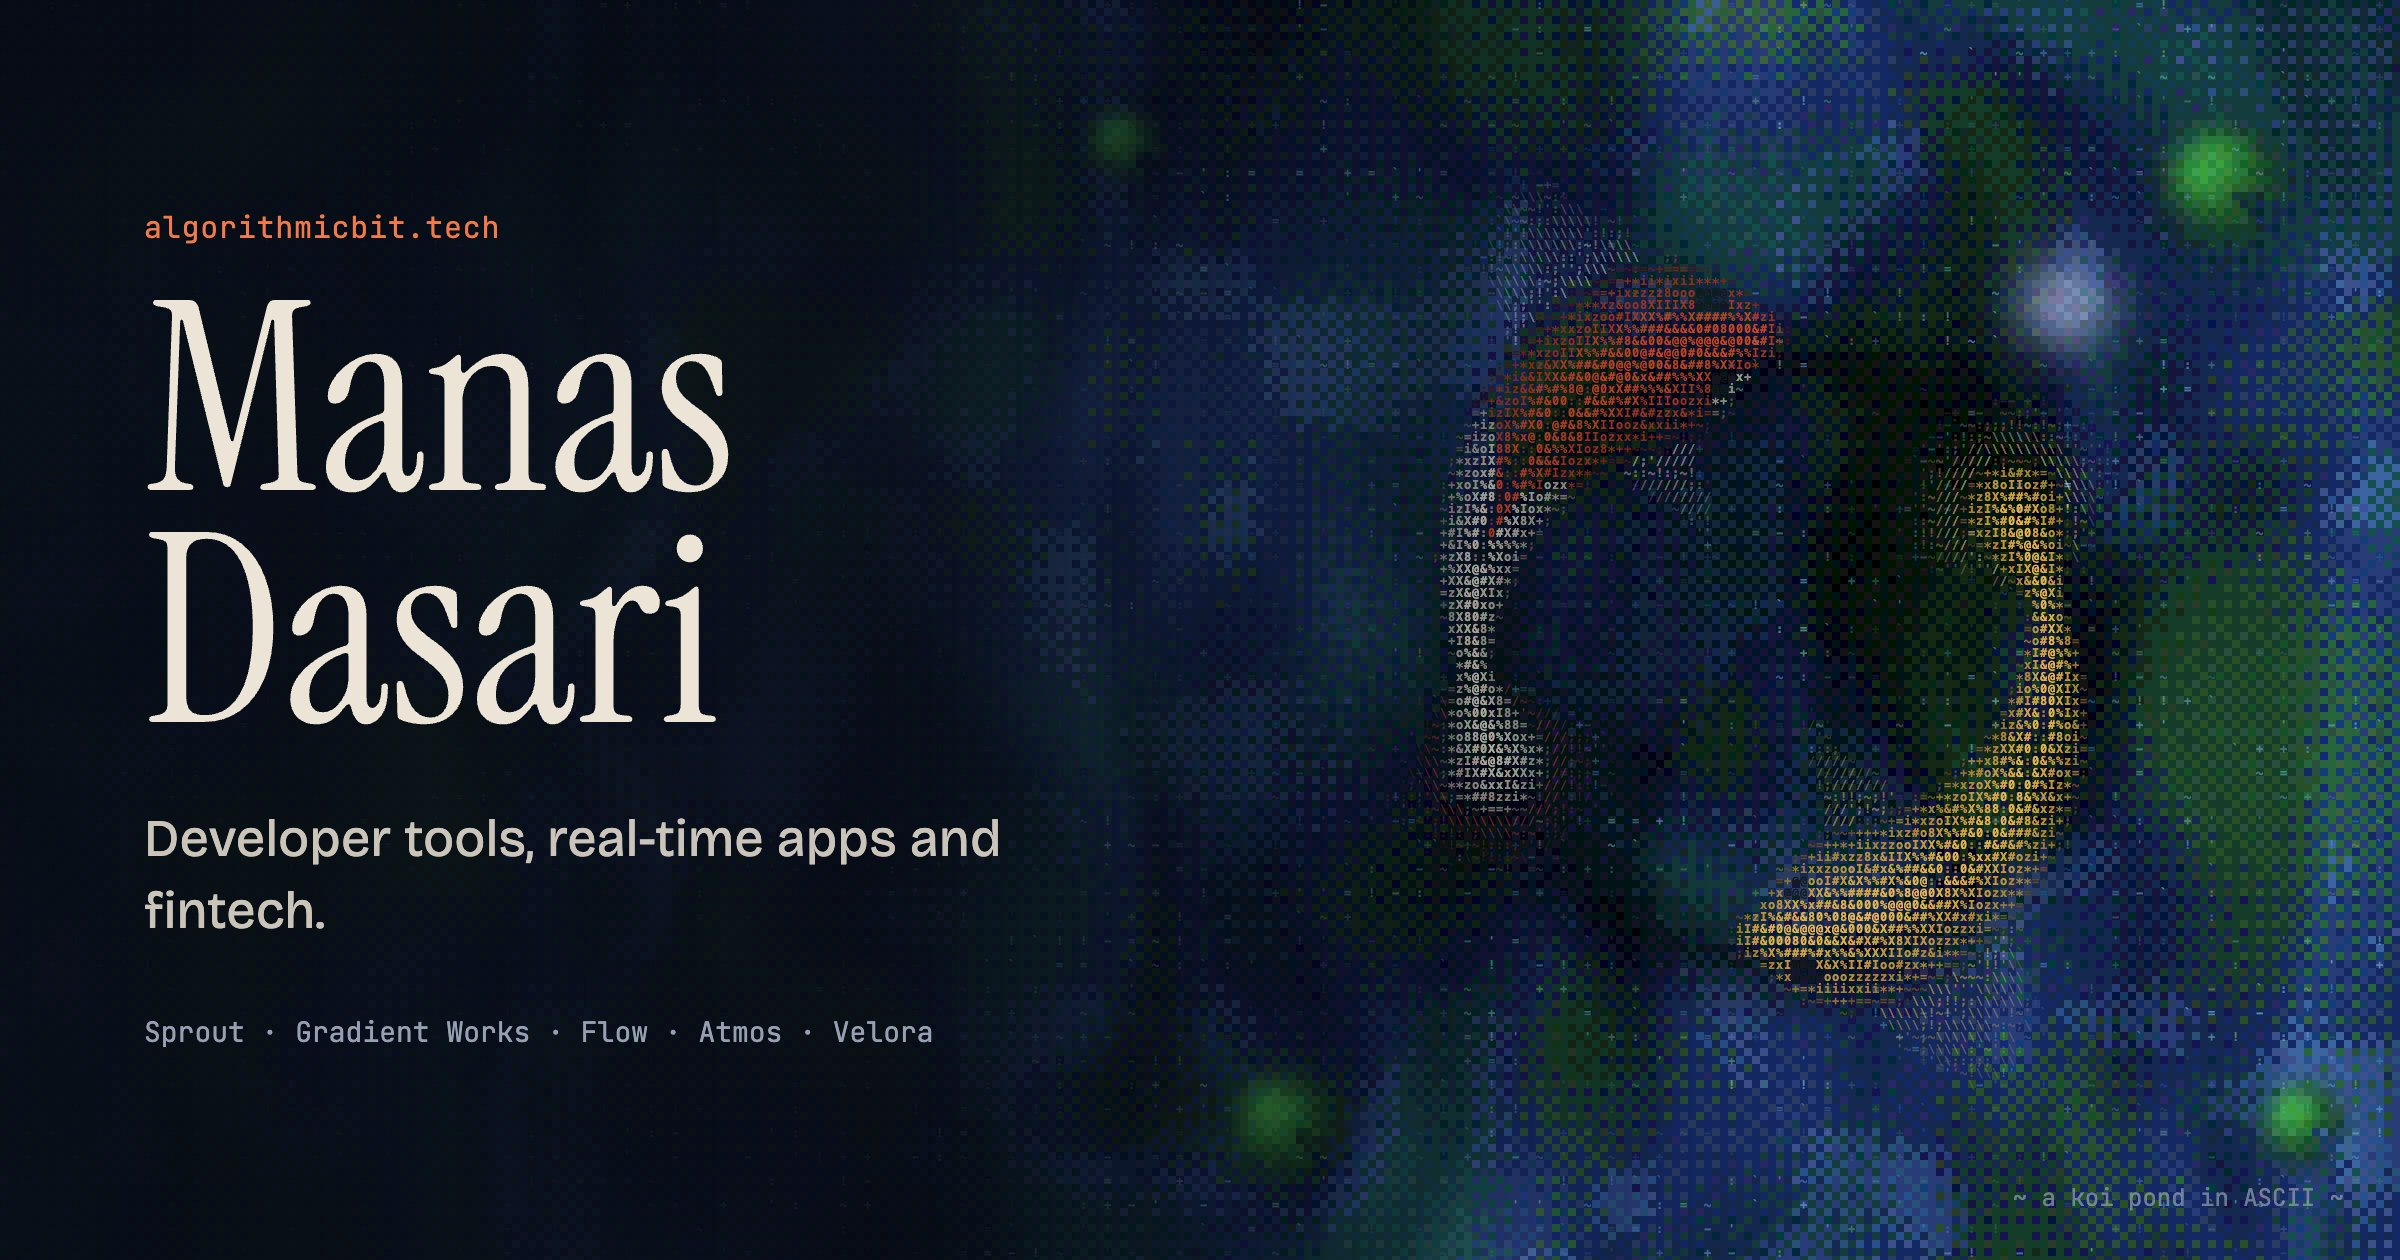
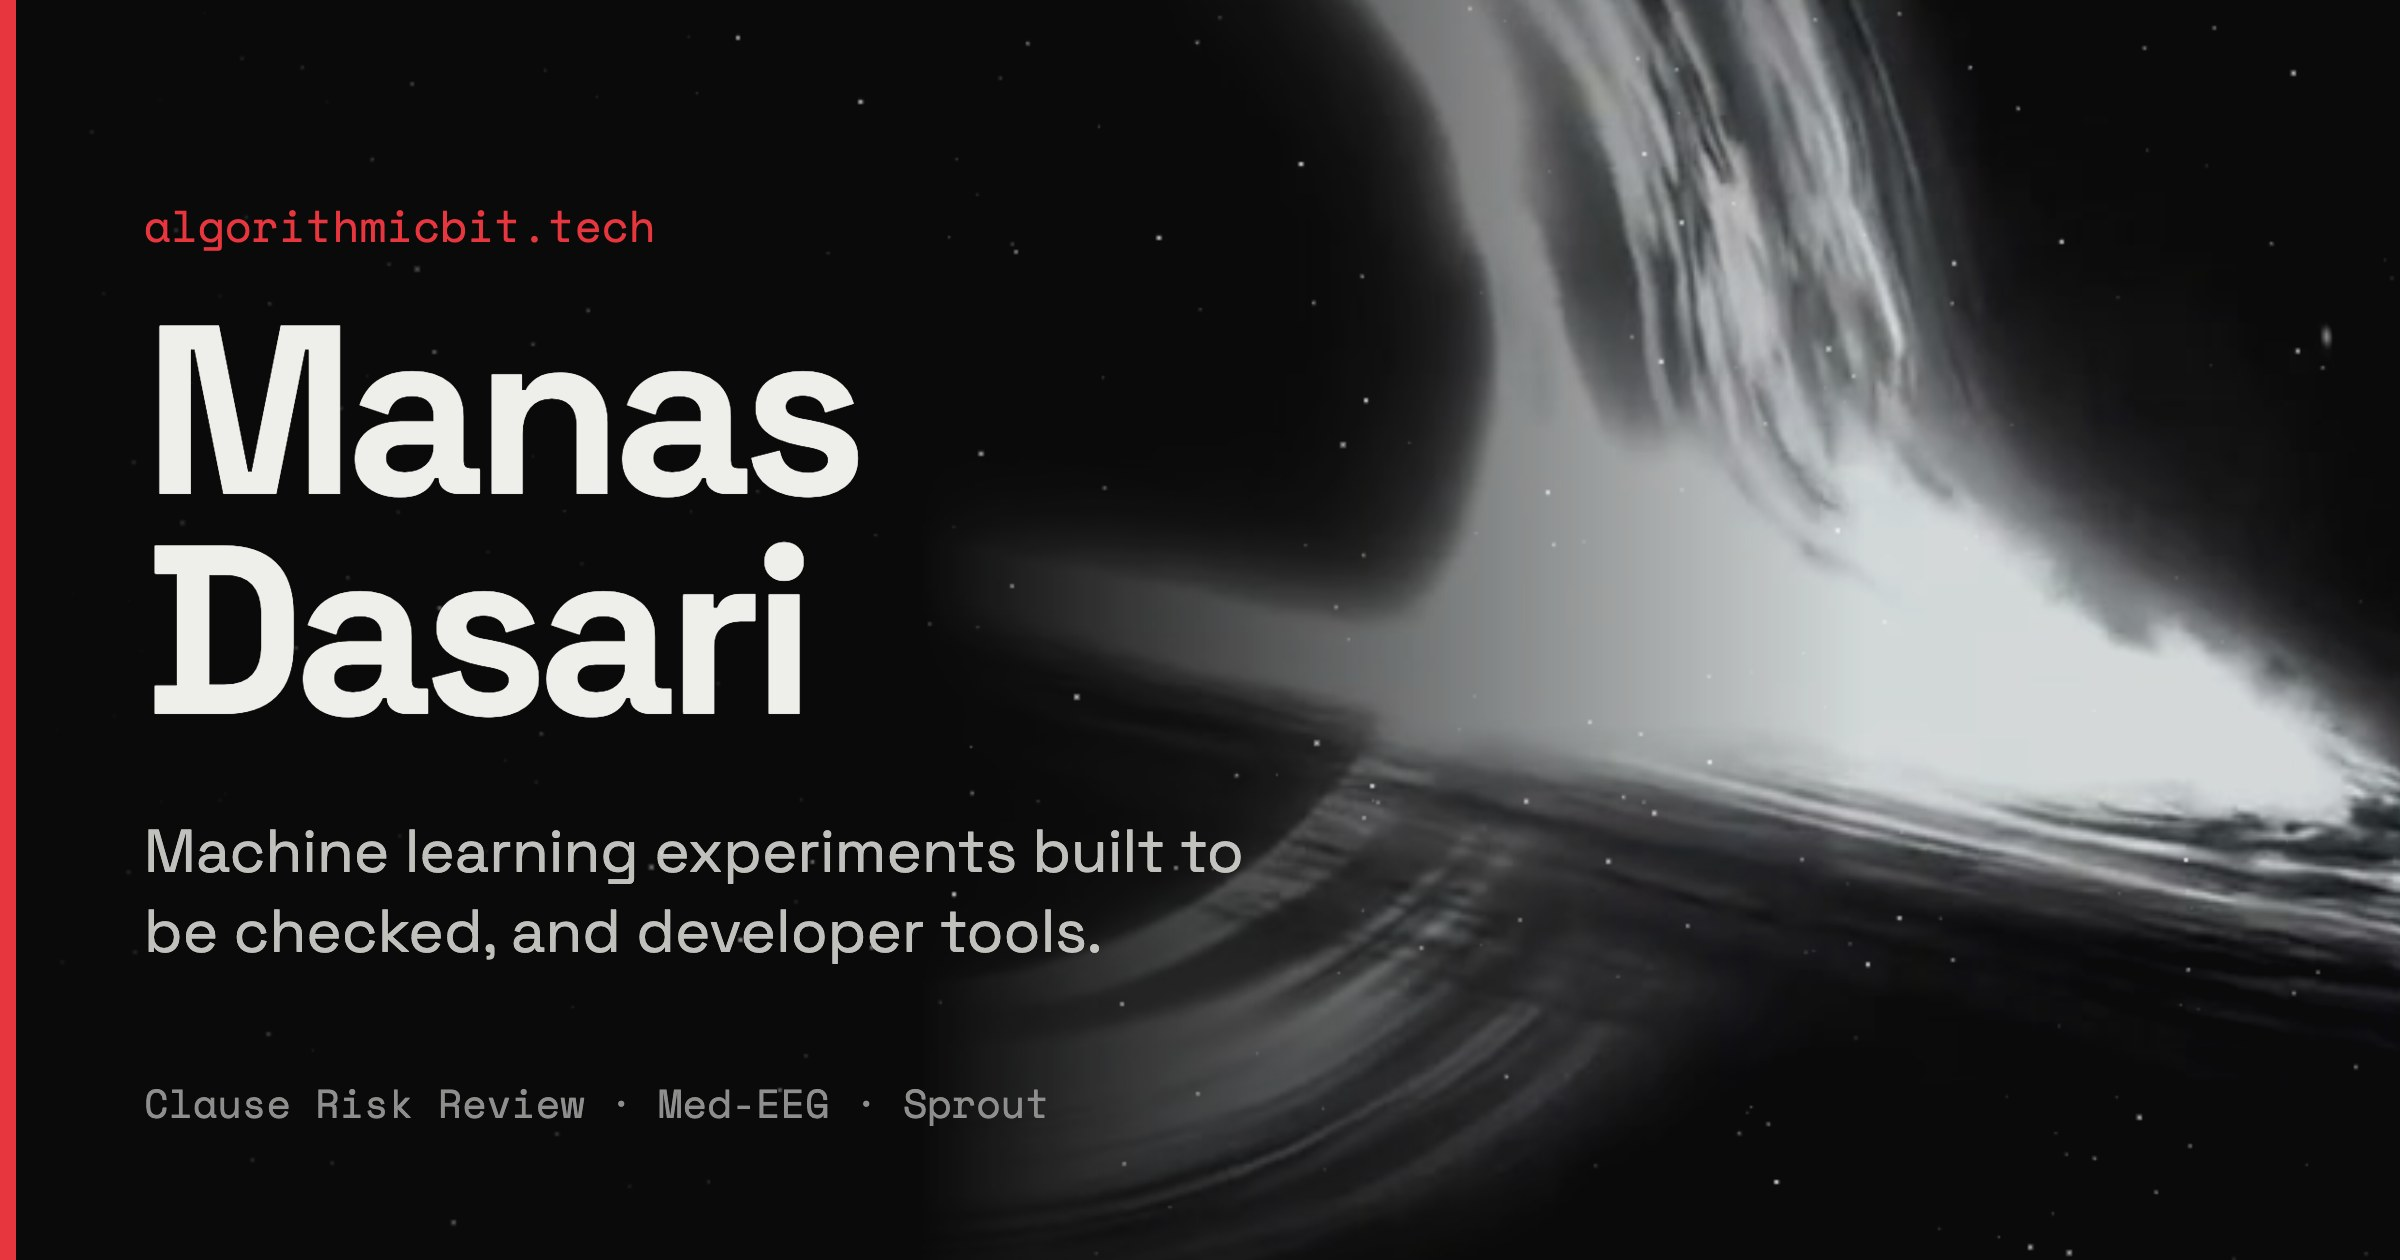
Share image: the black hole beside the name, research-first copy; cards in the red accent (#110)

diff --git a/lib/og/card.jsx b/lib/og/card.jsx
@@ -4,11 +4,11 @@ import { ImageResponse } from 'next/og';
 
 // The share card for a project or post (1200×630), drawn at build time: a kicker, the
 // title in the display serif, a subtitle, a meta line and the page's address, in the
-// Koi Pond palette.
+// site palette with the default red accent.
 export const size = { width: 1200, height: 630 };
 export const contentType = 'image/png';
 
-const C = { ink: '#0A0A0A', paper: '#121212', line: '#2E2E2E', text: '#EEEEEA', mute: '#8E8E8C', signal: '#F07A4A', accent: '#CECECA' };
+const C = { ink: '#0A0A0A', paper: '#121212', line: '#2E2E2E', text: '#EEEEEA', mute: '#8E8E8C', signal: '#E8363E', accent: '#CECECA' };
 const font = (file) => readFileSync(join(process.cwd(), 'lib/og', file));
 const FONTS = [
   // the site's fonts: Space Grotesk for titles ('Serif' is the title role), Space Mono for the rest
@@ -33,7 +33,7 @@ export function shareCard({ kicker, title, subtitle, meta, path, badge }) {
         {subtitle && <div style={{ fontSize: 34, color: C.text, marginTop: 40, lineHeight: 1.35, maxWidth: 1000 }}>{subtitle}</div>}
         <div style={{ display: 'flex', marginTop: 'auto', justifyContent: 'space-between', alignItems: 'flex-end', fontSize: 24, color: C.mute }}>
           <span>{meta}</span>
-          <span style={{ color: C.signal }}>algorithmicbit.tech{path}</span>
+          <span style={{ color: C.signal, flexShrink: 0, whiteSpace: 'nowrap', marginLeft: 32 }}>algorithmicbit.tech{path}</span>
         </div>
         <div style={{ position: 'absolute', left: 0, top: 0, bottom: 0, width: 10, background: C.signal }} />
       </div>
